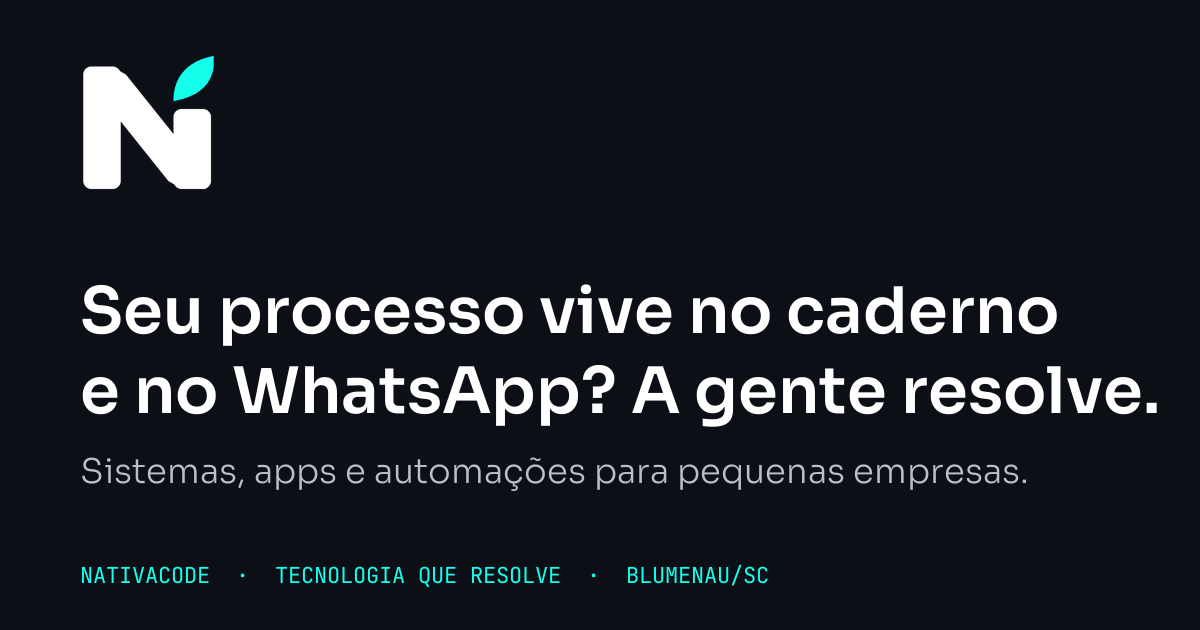
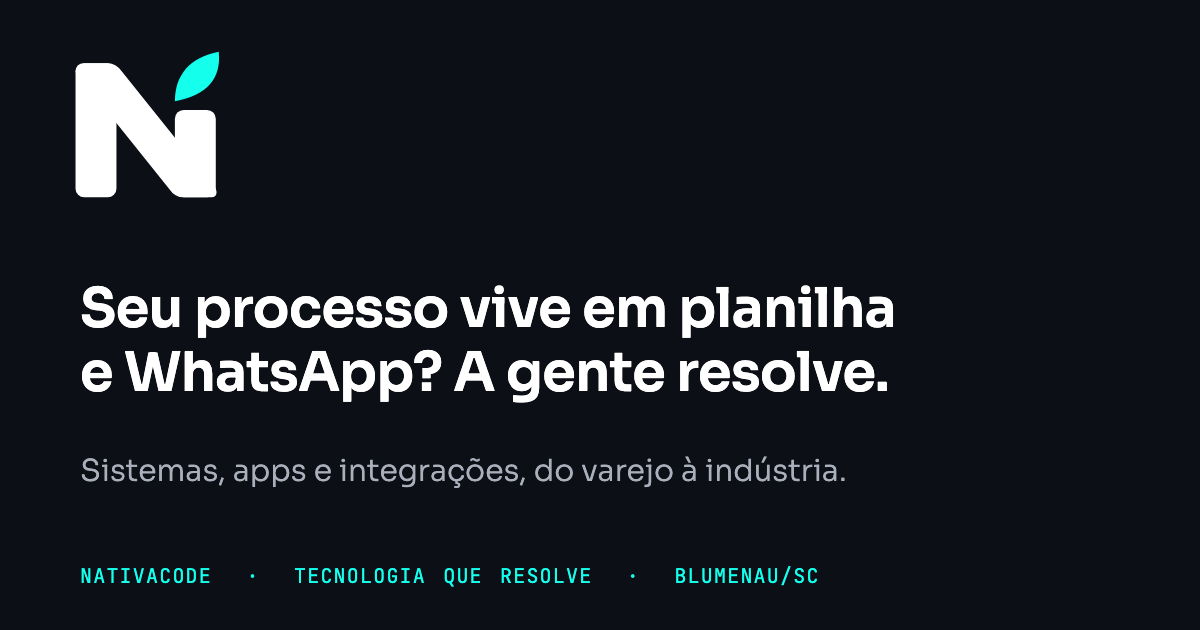
Posicionar para empresas de todos os portes e abrir canal de reunião
Tira "pequenas empresas" do site, do schema e do llms.txt, troca exemplos
de balcão e caderno por operação e indústria e refaz a og.png. Adiciona
o botão de agendar reunião por e-mail, troca "30 minutos grátis" por
reunião inicial sem custo e inclui no FAQ integrações, LGPD e NDA.

diff --git a/index.html b/index.html
@@ -4,7 +4,7 @@
     <meta charset="UTF-8">
     <meta name="viewport" content="width=device-width, initial-scale=1.0">
     <title>Sistemas, apps e automações em Blumenau | NativaCode</title>
-    <meta name="description" content="Software house de Blumenau/SC. Sistemas web, apps e automações de WhatsApp sob medida para pequenas empresas. Primeira versão em 2 a 3 semanas.">
+    <meta name="description" content="Software house de Blumenau/SC. Sistemas web, apps, integrações e automações sob medida para empresas do varejo à indústria. Primeira versão em 2 a 3 semanas.">
     <link rel="canonical" href="https://nativacode.com.br/">
     <meta name="theme-color" content="#0C0F15">
 
@@ -12,16 +12,16 @@
     <meta property="og:locale" content="pt_BR">
     <meta property="og:site_name" content="NativaCode">
     <meta property="og:title" content="NativaCode · Tecnologia que resolve">
-    <meta property="og:description" content="Sistemas, apps e automações para pequenas empresas. Você fala direto com quem programa.">
+    <meta property="og:description" content="Sistemas, apps e integrações sob medida, do varejo à indústria. Você fala direto com quem programa.">
     <meta property="og:url" content="https://nativacode.com.br/">
-    <meta property="og:image" content="https://nativacode.com.br/assets/img/og.png">
+    <meta property="og:image" content="https://nativacode.com.br/assets/img/og.png?v=2">
     <meta property="og:image:width" content="1200">
     <meta property="og:image:height" content="630">
-    <meta property="og:image:alt" content="NativaCode: sistemas, apps e automações para pequenas empresas. Blumenau/SC.">
+    <meta property="og:image:alt" content="NativaCode: sistemas, apps e integrações sob medida. Blumenau/SC.">
     <meta name="twitter:card" content="summary_large_image">
     <meta name="twitter:title" content="NativaCode · Tecnologia que resolve">
-    <meta name="twitter:description" content="Sistemas, apps e automações para pequenas empresas. Você fala direto com quem programa.">
-    <meta name="twitter:image" content="https://nativacode.com.br/assets/img/og.png">
+    <meta name="twitter:description" content="Sistemas, apps e integrações sob medida, do varejo à indústria. Você fala direto com quem programa.">
+    <meta name="twitter:image" content="https://nativacode.com.br/assets/img/og.png?v=2">
     <meta name="geo.region" content="BR-SC">
     <meta name="geo.placename" content="Blumenau">
     <link rel="alternate" type="text/plain" href="/llms.txt" title="Resumo do site para LLMs">
@@ -43,10 +43,10 @@
       "name": "NativaCode",
       "alternateName": "Nativa Code",
       "slogan": "Tecnologia que resolve",
-      "description": "Software house de Blumenau (SC) que desenvolve sistemas web, aplicativos iOS e Android, integrações e automações de WhatsApp sob medida para pequenas empresas.",
+      "description": "Software house de Blumenau (SC) que desenvolve sistemas web, aplicativos iOS e Android, integrações e automações sob medida para empresas de todos os portes, do varejo à indústria.",
       "url": "https://nativacode.com.br/",
       "logo": "https://nativacode.com.br/assets/brand/apple-touch-icon.png",
-      "image": "https://nativacode.com.br/assets/img/og.png",
+      "image": "https://nativacode.com.br/assets/img/og.png?v=2",
       "telephone": "+55-47-99665-0611",
       "email": "nativacode@gmail.com",
       "founder": {
@@ -104,14 +104,14 @@
             "itemOffered": {
               "@type": "Service",
               "name": "Integrações e automações",
-              "description": "WhatsApp, ERP, planilha e site trocando dados sem digitação manual."
+              "description": "ERP, CRM, WhatsApp, planilhas e APIs trocando dados sem digitação manual."
             }
           }
         ]
       },
       "makesOffer": {
         "@type": "Offer",
-        "description": "Primeira conversa de 30 minutos grátis; orçamento com preço fechado em até 48h."
+        "description": "Reunião inicial sem custo e sem compromisso; orçamento com preço fechado em até 48h."
       }
     },
     {
@@ -150,7 +150,7 @@
         "@id": "https://nativacode.com.br/#empresa"
       },
       "inLanguage": "pt-BR",
-      "dateModified": "2026-10-06"
+      "dateModified": "2026-10-14"
     },
     {
       "@type": "SoftwareApplication",
@@ -181,7 +181,7 @@
           "name": "Quanto custa um projeto?",
           "acceptedAnswer": {
             "@type": "Answer",
-            "text": "Depende do tamanho. Projetos menores, como uma automação ou integração, costumam começar em torno de R$ 3 mil. Sistemas e apps maiores a gente orça depois da conversa, sempre com preço fechado e pagamento por etapa."
+            "text": "Depende do escopo. Uma automação ou integração pontual começa em torno de R$ 3 mil; sistemas que rodam a operação inteira a gente orça depois da conversa. Sempre com preço fechado e pagamento por etapa."
           }
         },
         {
@@ -230,6 +230,30 @@
           "acceptedAnswer": {
             "@type": "Answer",
             "text": "Nos 90 dias depois da entrega, erro no que a gente construiu é corrigido sem custo. Depois disso, dá para seguir com suporte mensal ou por chamado."
+          }
+        },
+        {
+          "@type": "Question",
+          "name": "Integra com o sistema que a gente já usa?",
+          "acceptedAnswer": {
+            "@type": "Answer",
+            "text": "Integra. Se o sistema tem API, banco de dados ou exportação de arquivo, dá para fazer ele conversar com o resto, inclusive ERPs grandes como Totvs e SAP e sistemas antigos sem documentação. Se ainda não integramos com o seu, a gente estuda antes e diz na proposta como vai fazer."
+          }
+        },
+        {
+          "@type": "Question",
+          "name": "E os dados da minha empresa?",
+          "acceptedAnswer": {
+            "@type": "Answer",
+            "text": "Ficam protegidos. A gente segue a LGPD: os dados são usados só para o projeto, com acesso restrito a quem trabalha nele, e ficam de preferência numa conta no nome da sua empresa."
+          }
+        },
+        {
+          "@type": "Question",
+          "name": "Assinam acordo de confidencialidade (NDA)?",
+          "acceptedAnswer": {
+            "@type": "Answer",
+            "text": "Sim. Se a sua empresa preferir, a gente assina antes da primeira reunião, no modelo de vocês ou no nosso."
           }
         },
         {
@@ -653,6 +677,7 @@
         .final .folha-fundo { position: absolute; width: 640px; left: 50%; top: 50%; transform: translate(-50%, -50%) rotate(-8deg); opacity: 0.06; pointer-events: none; }
         .final h2 { margin: 0 auto 20px; max-width: 20ch; font-size: clamp(2rem, 4.4vw, 3.4rem); }
         .final .lead { margin: 0 auto 40px; }
+        .final-ctas { display: flex; flex-wrap: wrap; gap: 14px; justify-content: center; }
         .final .mono { margin-top: 28px; color: var(--texto-escuro-2); font-size: 0.72rem; }
 
         /* Footer */
@@ -734,7 +759,7 @@
             .container { padding: 0 16px; }
             section { padding: 80px 0; }
             .hero { padding: 128px 0 72px; }
-            .hero-ctas .btn { width: 100%; }
+            .hero-ctas .btn, .final-ctas .btn { width: 100%; }
             .microprova { flex-direction: column; gap: 8px; }
             .microprova span + span::before { display: none; }
             .microprova span::before { content: ''; width: 4px; height: 4px; border-radius: 50%; background: var(--ciano); }
@@ -761,6 +786,7 @@
             <symbol id="i-check-fino" viewBox="0 0 24 24"><path d="M20 6 9 17l-5-5" fill="none" stroke="currentColor" stroke-width="2.2" stroke-linecap="round" stroke-linejoin="round"/></symbol>
             <symbol id="i-whats" viewBox="0 0 24 24"><path d="M7.9 20A9 9 0 1 0 4 16.1L2 22Z" fill="none" stroke="currentColor" stroke-width="2" stroke-linecap="round" stroke-linejoin="round"/><path d="M9 10.5c.5 1.6 2 3.1 3.6 3.6l1.1-1.1 2 .9c-.2 1.1-1.1 1.9-2.2 1.9A6 6 0 0 1 8.2 10c0-1.1.8-2 1.9-2.2l.9 2Z" fill="currentColor"/></symbol>
             <symbol id="i-seta" viewBox="0 0 24 24"><path d="M5 12h14M13 6l6 6-6 6" fill="none" stroke="currentColor" stroke-width="2" stroke-linecap="round" stroke-linejoin="round"/></symbol>
+            <symbol id="i-agenda" viewBox="0 0 24 24"><rect x="3" y="5" width="18" height="16" rx="2" fill="none" stroke="currentColor" stroke-width="2"/><path d="M3 10h18M8 3v4M16 3v4" fill="none" stroke="currentColor" stroke-width="2" stroke-linecap="round"/></symbol>
             <symbol id="i-mais" viewBox="0 0 24 24"><path d="M12 5v14M5 12h14" fill="none" stroke="currentColor" stroke-width="2.2" stroke-linecap="round"/></symbol>
         </defs>
     </svg>
@@ -788,17 +814,17 @@
             <div class="container hero-grid">
                 <div>
                     <span class="rotulo"><svg><use href="#folha"/></svg>Tecnologia que resolve</span>
-                    <h1>Seu processo vive em caderno, planilha e grupo de WhatsApp? A gente transforma isso <span class="so-leitor">num sistema que funciona.</span><span class="troca" aria-hidden="true">
+                    <h1>Seu processo vive em planilha, e&#8209;mail e grupo de WhatsApp? A gente transforma isso <span class="so-leitor">num sistema que funciona.</span><span class="troca" aria-hidden="true">
                         <span class="ativa">num sistema que funciona.</span>
                         <span>num app que o cliente usa.</span>
                         <span>numa automação que resolve.</span>
                         <span>num site que traz cliente.</span>
                         <span>num painel que mostra tudo.</span>
                     </span></h1>
-                    <p class="lead">Sistemas, apps e automações para pequenas empresas. Você fala direto com quem programa.</p>
+                    <p class="lead">Sistemas, apps e integrações sob medida, do varejo à indústria. Você fala direto com quem programa.</p>
                     <div class="hero-ctas">
                         <a class="btn btn-primario" data-wa="Oi! Vim pelo site da NativaCode e queria conversar sobre um projeto."><svg><use href="#i-whats"/></svg>Conversar no WhatsApp</a>
-                        <a class="btn btn-secundario" href="#preco">Ver como é cobrado</a>
+                        <a class="btn btn-secundario" href="mailto:nativacode@gmail.com?subject=Agendar%20reuni%C3%A3o%20com%20a%20NativaCode&amp;body=Ol%C3%A1%21%20Gostaria%20de%20agendar%20uma%20reuni%C3%A3o.%0A%0AEmpresa%3A%0ACargo%3A%0AO%20que%20precisamos%20resolver%3A%0AMelhores%20dias%20e%20hor%C3%A1rios%3A%0A"><svg><use href="#i-agenda"/></svg>Agendar reunião</a>
                     </div>
                     <div class="microprova mono">
                         <span>Navega Fácil na App Store e no Google Play</span>
@@ -829,8 +855,8 @@
                     <label class="dor"><input type="checkbox" value="Pedido ou orçamento que se perde no WhatsApp"><span class="caixa"><svg><use href="#i-check"/></svg></span>Pedido ou orçamento que se perde no WhatsApp</label>
                     <label class="dor"><input type="checkbox" value="Planilha que só uma pessoa entende"><span class="caixa"><svg><use href="#i-check"/></svg></span>Planilha que só uma pessoa entende</label>
                     <label class="dor"><input type="checkbox" value="Digitar a mesma informação em dois sistemas"><span class="caixa"><svg><use href="#i-check"/></svg></span>Digitar a mesma informação em dois sistemas</label>
-                    <label class="dor"><input type="checkbox" value="Não saber quanto vendeu até o fim do mês"><span class="caixa"><svg><use href="#i-check"/></svg></span>Não saber quanto vendeu até o fim do mês</label>
-                    <label class="dor"><input type="checkbox" value="Agenda no caderno e cliente marcado em dobro"><span class="caixa"><svg><use href="#i-check"/></svg></span>Agenda no caderno e cliente marcado em dobro</label>
+                    <label class="dor"><input type="checkbox" value="Relatório que leva dias para fechar"><span class="caixa"><svg><use href="#i-check"/></svg></span>Relatório que leva dias para fechar</label>
+                    <label class="dor"><input type="checkbox" value="ERP que não conversa com o resto da operação"><span class="caixa"><svg><use href="#i-check"/></svg></span>ERP que não conversa com o resto da operação</label>
                     <label class="dor"><input type="checkbox" value="Sistema que trava bem na hora do movimento"><span class="caixa"><svg><use href="#i-check"/></svg></span>Sistema que trava bem na hora do movimento</label>
                 </div>
 
@@ -845,8 +871,8 @@
                         <h3>Quanto custa o seu processo manual?</h3>
                         <p>Pensa numa tarefa repetida: copiar pedido, conferir planilha, responder a mesma pergunta.</p>
                         <div class="campo">
-                            <div class="campo-topo"><label for="c-pessoas">Pessoas fazendo isso</label><output id="o-pessoas" for="c-pessoas">2</output></div>
-                            <input type="range" id="c-pessoas" min="1" max="15" step="1" value="2">
+                            <div class="campo-topo"><label for="c-pessoas">Pessoas fazendo isso</label><output id="o-pessoas" for="c-pessoas">4</output></div>
+                            <input type="range" id="c-pessoas" min="1" max="100" step="1" value="4">
                         </div>
                         <div class="campo">
                             <div class="campo-topo"><label for="c-horas">Horas por semana, cada uma</label><output id="o-horas" for="c-horas">5 h</output></div>
@@ -881,7 +907,7 @@
                         <div class="servico-icone"><svg viewBox="0 0 24 24" fill="none" stroke="currentColor" stroke-width="1.8" stroke-linecap="round" stroke-linejoin="round"><rect x="2" y="3" width="20" height="14" rx="2"/><path d="M8 21h8M12 17v4"/></svg></div>
                         <h3>Sistemas web</h3>
                         <p>Pedidos, estoque, agenda e financeiro num lugar só. Abre no computador e no celular.</p>
-                        <p class="exemplo"><svg style="color: var(--ciano)"><use href="#folha"/></svg>Ex.: encomenda feita no balcão que cai direto na tela da produção.</p>
+                        <p class="exemplo"><svg style="color: var(--ciano)"><use href="#folha"/></svg>Ex.: pedido fechado pelo comercial que cai direto no planejamento da produção.</p>
                     </article>
                     <article class="servico surge">
                         <div class="servico-icone"><svg viewBox="0 0 24 24" fill="none" stroke="currentColor" stroke-width="1.8" stroke-linecap="round" stroke-linejoin="round"><rect x="5" y="2" width="14" height="20" rx="2"/><path d="M12 18h.01"/></svg></div>
@@ -892,7 +918,7 @@
                     <article class="servico surge">
                         <div class="servico-icone"><svg viewBox="0 0 24 24" fill="none" stroke="currentColor" stroke-width="1.8" stroke-linecap="round" stroke-linejoin="round"><rect x="3" y="3" width="8" height="8" rx="2"/><path d="M7 11v4a2 2 0 0 0 2 2h4"/><rect x="13" y="13" width="8" height="8" rx="2"/></svg></div>
                         <h3>Integrações e automações</h3>
-                        <p>WhatsApp, ERP, planilha e site conversando sozinhos, sem ninguém copiar e colar.</p>
+                        <p>ERP, CRM, WhatsApp, planilhas e APIs conversando sozinhos, sem ninguém copiar e colar.</p>
                         <p class="exemplo"><svg style="color: var(--ciano)"><use href="#folha"/></svg>Ex.: pedido do site vira aviso no WhatsApp e baixa no estoque.</p>
                     </article>
                 </div>
@@ -900,7 +926,7 @@
         </section>
 
         <!-- 4. Como funciona -->
-        <section class="claro" id="como-funciona" data-wa-secao="Oi! Vim pelo site da NativaCode e queria marcar a conversa de 30 minutos.">
+        <section class="claro" id="como-funciona" data-wa-secao="Oi! Vim pelo site da NativaCode e queria marcar uma reunião inicial.">
             <div class="container">
                 <div class="surge">
                     <span class="rotulo"><svg><use href="#folha"/></svg>Como funciona</span>
@@ -908,10 +934,10 @@
                 </div>
                 <ol class="etapas" style="list-style: none">
                     <li class="etapa surge">
-                        <span class="mono">01 · Conversa</span>
-                        <h3>30 minutos, grátis</h3>
+                        <span class="mono">01 · Reunião</span>
+                        <h3>Reunião inicial sem custo</h3>
                         <p>Você conta o problema. A gente diz se dá pra resolver com sistema ou se basta arrumar o processo. Às vezes a resposta é que não vale a pena fazer.</p>
-                        <span class="prazo">WhatsApp ou chamada</span>
+                        <span class="prazo">Presencial, chamada ou WhatsApp</span>
                     </li>
                     <li class="etapa surge">
                         <span class="mono">02 · Proposta</span>
@@ -1001,7 +1027,7 @@
                             <span class="num">03</span>
                             <div><h3>Pagamento por etapa entregue</h3><p>Você paga em partes, conforme cada etapa fica pronta.</p></div>
                         </div>
-                        <p class="referencia surge">Projetos menores, como uma automação ou integração, costumam começar em torno de R$ 3 mil. <span>Sistemas e apps maiores, a gente orça depois da conversa.</span></p>
+                        <p class="referencia surge">Vai de uma automação pontual, a partir de R$ 3 mil, a sistemas que rodam a operação inteira. <span>Projetos maiores a gente orça depois da conversa.</span></p>
                     </div>
                     <aside class="garantia surge" aria-label="Garantia">
                         <svg class="folha-fundo" style="color: var(--ciano)" aria-hidden="true"><use href="#folha"/></svg>
@@ -1038,8 +1064,8 @@
                     <h2>Quem entende o seu problema é <span class="destaque">quem escreve o código.</span></h2>
                     <p>A conversa do primeiro dia é com quem vai construir o sistema, e é com essa mesma pessoa que você fala quando precisar de ajuste.</p>
                     <!-- TROCAR pela frase do Gustavo (CONTEUDO.md, seção 3: "Por que você faz isso") -->
-                    <p class="frase">Gosto de ver o sistema em uso no balcão do cliente. Considero o trabalho pronto quando ele resolve o problema de alguém.</p>
-                    <p>Quando o projeto pede, entra gente de confiança no time. Você continua falando com a mesma pessoa.</p>
+                    <p class="frase">Gosto de ver o sistema rodando na operação do cliente. Considero o trabalho pronto quando ele resolve o problema de alguém.</p>
+                    <p>Em projeto maior, o time cresce com gente de confiança. Você continua falando com a mesma pessoa.</p>
                     <div class="fatos">
                         <div class="fato"><span class="mono">Presencial</span><span>Blumenau e Vale do Itajaí</span></div>
                         <div class="fato"><span class="mono">Online</span><span>Brasil todo</span></div>
@@ -1055,14 +1081,14 @@
             <div class="container faq-grid">
                 <div class="surge">
                     <span class="rotulo"><svg><use href="#folha"/></svg>Perguntas frequentes</span>
-                    <h2>O que todo dono de empresa pergunta.</h2>
+                    <h2>O que todo cliente pergunta antes de começar.</h2>
                     <p class="lead" style="margin-bottom: 28px">Não achou a sua? Manda no WhatsApp.</p>
                     <a class="btn btn-primario" data-wa="Oi! Vim pelo site da NativaCode e fiquei com uma dúvida."><svg><use href="#i-whats"/></svg>Perguntar no WhatsApp</a>
                 </div>
                 <div class="faq-lista surge">
                     <details>
                         <summary>Quanto custa um projeto?<span class="mais"><svg><use href="#i-mais"/></svg></span></summary>
-                        <p>Depende do tamanho. Projetos menores, como uma automação ou integração, costumam começar em torno de R$ 3 mil. Sistemas e apps maiores a gente orça depois da conversa, sempre com preço fechado e pagamento por etapa.</p>
+                        <p>Depende do escopo. Uma automação ou integração pontual começa em torno de R$ 3 mil; sistemas que rodam a operação inteira a gente orça depois da conversa. Sempre com preço fechado e pagamento por etapa.</p>
                     </details>
                     <details>
                         <summary>Quanto tempo leva?<span class="mais"><svg><use href="#i-mais"/></svg></span></summary>
@@ -1089,6 +1115,18 @@
                         <p>Nos 90 dias depois da entrega, erro no que a gente construiu é corrigido sem custo. Depois disso, dá para seguir com suporte mensal ou por chamado.</p>
                     </details>
                     <details>
+                        <summary>Integra com o sistema que a gente já usa?<span class="mais"><svg><use href="#i-mais"/></svg></span></summary>
+                        <p>Integra. Se o sistema tem API, banco de dados ou exportação de arquivo, dá para fazer ele conversar com o resto, inclusive ERPs grandes como Totvs e SAP e sistemas antigos sem documentação. Se ainda não integramos com o seu, a gente estuda antes e diz na proposta como vai fazer.</p>
+                    </details>
+                    <details>
+                        <summary>E os dados da minha empresa?<span class="mais"><svg><use href="#i-mais"/></svg></span></summary>
+                        <p>Ficam protegidos. A gente segue a LGPD: os dados são usados só para o projeto, com acesso restrito a quem trabalha nele, e ficam de preferência numa conta no nome da sua empresa.</p>
+                    </details>
+                    <details>
+                        <summary>Assinam acordo de confidencialidade (NDA)?<span class="mais"><svg><use href="#i-mais"/></svg></span></summary>
+                        <p>Sim. Se a sua empresa preferir, a gente assina antes da primeira reunião, no modelo de vocês ou no nosso.</p>
+                    </details>
+                    <details>
                         <summary>Vocês fazem qualquer coisa?<span class="mais"><svg><use href="#i-mais"/></svg></span></summary>
                         <p>A gente não começa nenhum projeto sem entender o problema antes. Às vezes, na primeira conversa, a resposta é que você precisa arrumar o processo, e um sistema novo não ajudaria.</p>
                     </details>
@@ -1105,10 +1143,13 @@
             <svg class="folha-fundo" style="color: var(--ciano)" aria-hidden="true"><use href="#folha"/></svg>
             <div class="container surge">
                 <span class="rotulo"><svg><use href="#folha"/></svg>Vamos conversar</span>
-                <h2>Conta o problema pra gente. Em 30 minutos você sabe <span class="destaque">se dá pra resolver.</span></h2>
-                <p class="lead">A conversa é grátis, sem compromisso e sem apresentação de vendas.</p>
-                <a class="btn btn-primario" data-wa="Oi! Vim pelo site da NativaCode e quero resolver: "><svg><use href="#i-whats"/></svg>Chamar no WhatsApp</a>
-                <p class="mono">Grátis · (47) 99665-0611 · Blumenau/SC</p>
+                <h2>Conta o problema pra gente. Na primeira reunião você já sabe <span class="destaque">se dá pra resolver.</span></h2>
+                <p class="lead">A reunião inicial não tem custo nenhum nem compromisso, e não é apresentação de vendas.</p>
+                <div class="final-ctas">
+                    <a class="btn btn-primario" data-wa="Oi! Vim pelo site da NativaCode e quero resolver: "><svg><use href="#i-whats"/></svg>Chamar no WhatsApp</a>
+                    <a class="btn btn-secundario" href="mailto:nativacode@gmail.com?subject=Agendar%20reuni%C3%A3o%20com%20a%20NativaCode&amp;body=Ol%C3%A1%21%20Gostaria%20de%20agendar%20uma%20reuni%C3%A3o.%0A%0AEmpresa%3A%0ACargo%3A%0AO%20que%20precisamos%20resolver%3A%0AMelhores%20dias%20e%20hor%C3%A1rios%3A%0A"><svg><use href="#i-agenda"/></svg>Agendar reunião por e-mail</a>
+                </div>
+                <p class="mono">Sem custo · (47) 99665-0611 · nativacode@gmail.com · Blumenau/SC</p>
             </div>
         </section>
     </main>
@@ -1118,7 +1159,7 @@
             <div class="footer-grid">
                 <div>
                     <a href="#inicio" class="footer-logo"><img src="assets/brand/logo-slogan.svg" alt="NativaCode, tecnologia que resolve" width="178" height="46" loading="lazy"></a>
-                    <p>A NativaCode é uma software house de Blumenau (SC). Desenvolve sistemas web, apps iOS e Android, integrações e automações de WhatsApp sob medida para pequenas empresas do Vale do Itajaí e do Brasil todo.</p>
+                    <p>A NativaCode é uma software house de Blumenau (SC). Desenvolve sistemas web, apps iOS e Android, integrações e automações sob medida para empresas de todos os portes, do varejo à indústria, no Vale do Itajaí e no Brasil todo.</p>
                 </div>
                 <div>
                     <h2 class="footer-titulo">Contato</h2>
